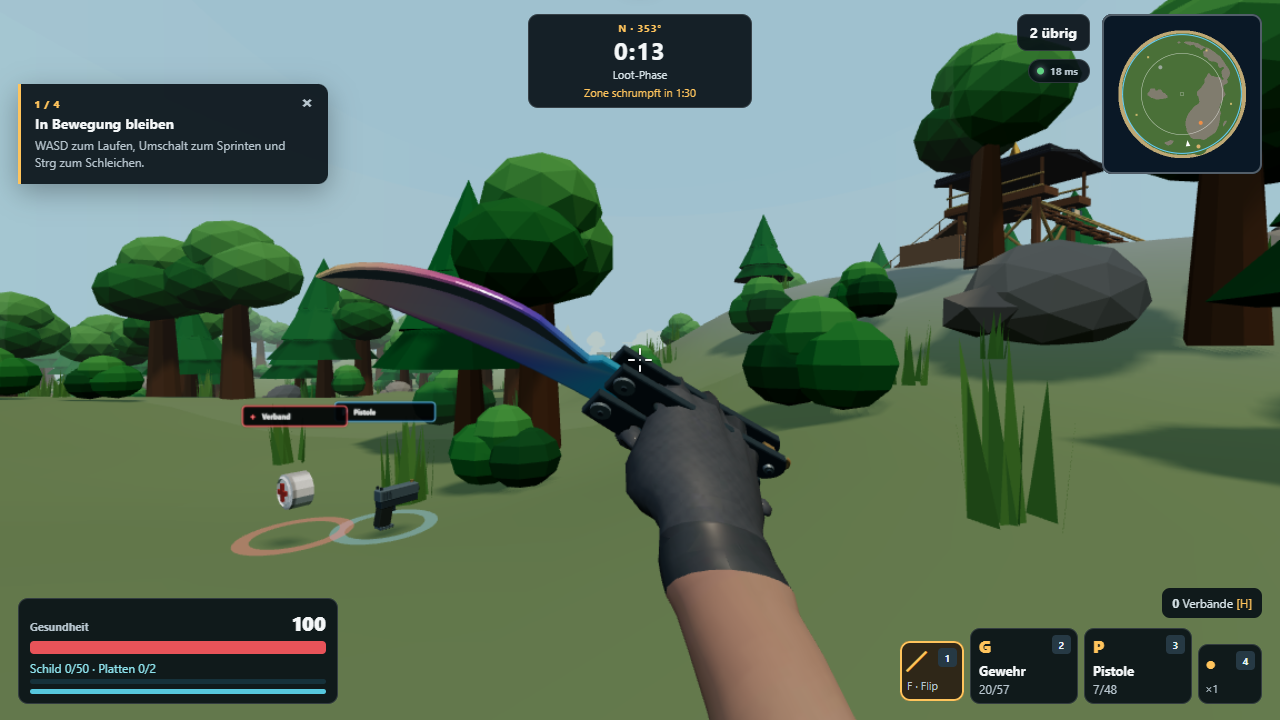
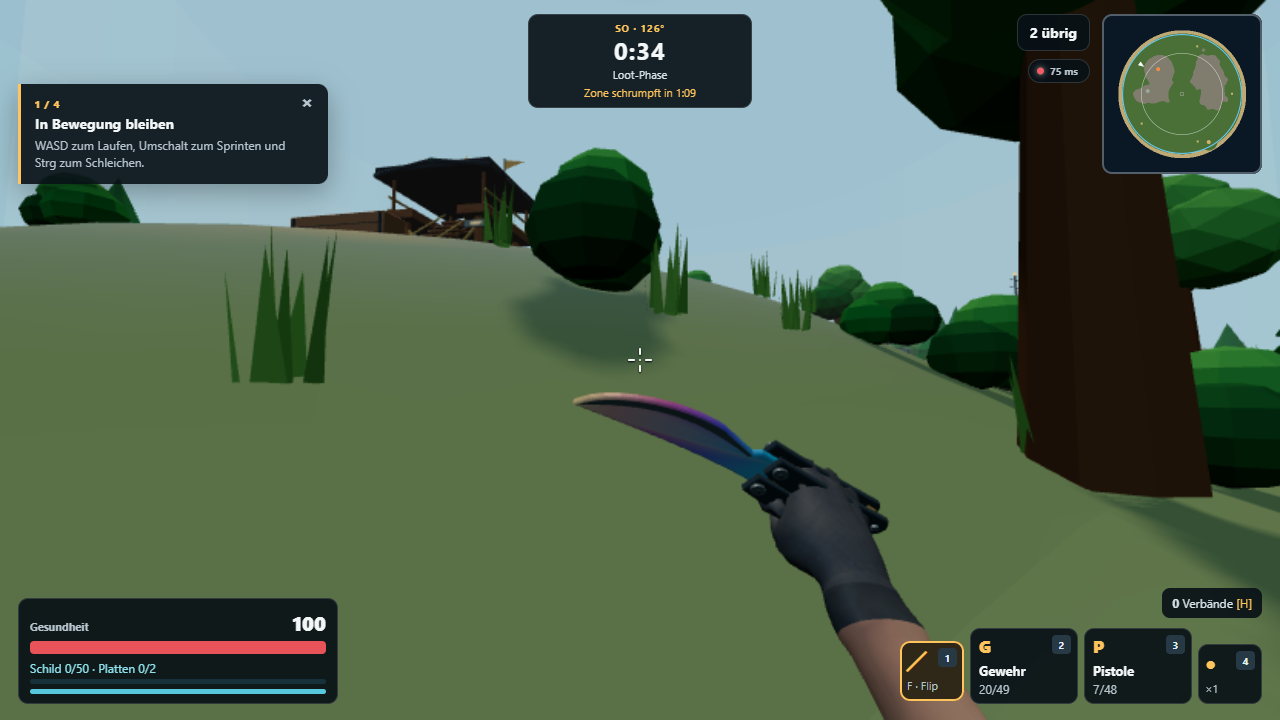
Refine knife and rifle first-person framing

diff --git a/tests/browser/gameplay-upgrade.spec.ts b/tests/browser/gameplay-upgrade.spec.ts
@@ -55,11 +55,15 @@ test('upgraded firearms fire, aim, reload and switch through real game input', a
     expect((await view()).supportGripError).toBeLessThan(0.001);
     const before = (await command('state')).mag;
     await page.mouse.down();
-    await page.waitForTimeout(180);
+    await page.waitForTimeout(70);
+    expect((await view()).centerObstruction).toBeNull();
+    await page.screenshot({ path: testInfo.outputPath('rifle-hip-fire.png') });
+    await page.waitForTimeout(110);
     await page.mouse.up();
     await expect.poll(async () => (await command('state')).mag).toBeLessThan(before);
     await page.mouse.down({ button: 'right' });
     await page.waitForTimeout(300);
+    expect((await view()).centerObstruction).toBeNull();
     await page.screenshot({ path: testInfo.outputPath('rifle-aim.png') });
     await page.mouse.up({ button: 'right' });
     await page.keyboard.press('r');
@@ -67,9 +71,17 @@ test('upgraded firearms fire, aim, reload and switch through real game input', a
     expect((await view()).supportGripError).toBeLessThan(0.001);
     expect((await view()).supportGripClose).toBeGreaterThan(0.8);
     await page.screenshot({ path: testInfo.outputPath('rifle-reload.png') });
-    await expect.poll(async () => (await view()).reloadProgress, { timeout: 8000 }).toBeGreaterThan(0.82);
-    expect((await view()).supportGripError).toBeLessThan(0.001);
-    await page.screenshot({ path: testInfo.outputPath('rifle-bolt.png') });
+    // Screenshot encoding can outlast the remaining two-second reload.
+    if ((await view()).reloadProgress >= 0) {
+      await expect.poll(async () => {
+        const progress = (await view()).reloadProgress;
+        return progress > 0.82 || progress < 0;
+      }, { timeout: 8000 }).toBe(true);
+      if ((await view()).reloadProgress >= 0) {
+        expect((await view()).supportGripError).toBeLessThan(0.001);
+        await page.screenshot({ path: testInfo.outputPath('rifle-bolt.png') });
+      }
+    }
     await expect.poll(async () => (await command('state')).reloading, { timeout: 8000 }).toBe(false);
     expect((await command('state')).mag).toBe(20);
     await page.keyboard.press('3');
@@ -96,6 +108,7 @@ test('upgraded firearms fire, aim, reload and switch through real game input', a
     await expect.poll(async () => (await view()).knifeAnimating).toBe(false);
     expect((await view()).knifeGripRelease).toBe(0);
     expect((await view()).primaryGripError).toBeLessThan(0.001);
+    expect((await view()).centerObstruction).toBeNull();
     await page.screenshot({ path: testInfo.outputPath('butterfly-ready.png') });
     expect((await view()).hands).toHaveLength(1);
     expect((await view()).hands[0].anatomical).toBe(true);
@@ -105,13 +118,30 @@ test('upgraded firearms fire, aim, reload and switch through real game input', a
     await expect.poll(async () => (await view()).knifeInspecting).toBe(true);
     await page.waitForTimeout(150);
     expect((await view()).primaryGripError).toBeLessThan(0.001);
+    expect((await view()).centerObstruction).toBeNull();
     await page.screenshot({ path: testInfo.outputPath('butterfly-inspect-contact.png') });
-    await page.waitForTimeout(450);
-    expect((await view()).knifeGripRelease).toBeGreaterThan(0.8);
+    // A second press can restart the flourish even if capturing the first
+    // frame took longer than the current animation cycle on a slow machine.
+    await page.keyboard.press('f');
+    await expect.poll(async () => (await view()).knifeProgress).toBeLessThan(0.12);
+    await expect.poll(async () => (await view()).knifeGripRelease, { timeout: 2500 }).toBeGreaterThan(0.8);
     expect((await view()).primaryGripError).toBeLessThan(0.001);
+    expect((await view()).centerObstruction).toBeNull();
     await page.screenshot({ path: testInfo.outputPath('butterfly-inspect.png') });
-    await page.waitForTimeout(400);
+    await expect.poll(async () => (await view()).knifeInspecting, { timeout: 3500 }).toBe(false);
     await page.screenshot({ path: testInfo.outputPath('butterfly-inspect-return.png') });
+    await page.keyboard.press('f');
+    const blockedInspectFrames = await page.evaluate(async () => {
+      const hits: string[] = [];
+      const started = performance.now();
+      while (performance.now() - started < 1700) {
+        await new Promise<void>(resolve => requestAnimationFrame(() => resolve()));
+        const stats = (window as any).__ISLAND_DUELL_DIAGNOSTICS__.snapshot().entities?.viewmodel;
+        if (stats?.centerObstruction) hits.push(stats.centerObstruction);
+      }
+      return [...new Set(hits)];
+    });
+    expect(blockedInspectFrames).toEqual([]);
     for (let i = 0; i < 3; i++) {
       await page.keyboard.press('f');
       await expect.poll(async () => (await view()).knifeProgress).toBeLessThan(0.12);

diff --git a/client/src/entities.ts b/client/src/entities.ts
@@ -562,11 +562,11 @@ function viewmodelFor(weapon: WeaponType | 'none', skinColor: number): THREE.Gro
     }
   }
 
-  const scale = weapon === 'knife' ? 0.78 : weapon === 'rifle' ? 0.52
+  const scale = weapon === 'knife' ? 0.72 : weapon === 'rifle' ? 0.52
     : weapon === 'shotgun' || weapon === 'sniper' ? 0.42 : 0.54;
   g.scale.setScalar(scale);
   const baseRotation = weapon === 'knife' ? { x: 0.65, y: 0, z: 0.92 }
-    : { x: 0, y: weapon === 'rifle' ? 0.35 : -0.08, z: 0 };
+    : { x: 0, y: weapon === 'rifle' ? 0.08 : -0.08, z: 0 };
   g.rotation.set(baseRotation.x, baseRotation.y, baseRotation.z);
   g.userData.viewmodelBaseRotation = baseRotation;
   g.traverse((object) => {
@@ -1696,18 +1696,18 @@ export class Entities {
     const knifeView = this.viewWeaponType === 'knife';
     const longGunView = this.viewWeaponType === 'rifle'
       || this.viewWeaponType === 'shotgun' || this.viewWeaponType === 'sniper';
-    const hipX = knifeView ? -0.04 : longGunView ? 0.20 : 0.38;
-    const hipY = knifeView ? -0.04 : longGunView ? -0.14 : -0.28;
-    const hipZ = knifeView ? -0.70 : longGunView ? -0.68 : -0.72;
-    const aimY = this.viewWeaponType === 'pistol' ? -0.09 : this.viewWeaponType === 'sniper' ? -0.086 : -0.065;
+    const hipX = knifeView ? 0.23 : longGunView ? 0.20 : 0.38;
+    const hipY = knifeView ? -0.20 : longGunView ? -0.14 : -0.28;
+    const hipZ = knifeView ? -0.86 : longGunView ? -0.68 : -0.72;
+    const aimY = this.viewWeaponType === 'pistol' ? -0.09 : this.viewWeaponType === 'sniper' ? -0.086 : this.viewWeaponType === 'rifle' ? -0.07 : -0.065;
     this.viewRoot.position.set(
       THREE.MathUtils.lerp(hipX, 0, this.aimBlend),
       THREE.MathUtils.lerp(hipY, aimY, this.aimBlend),
-      THREE.MathUtils.lerp(hipZ, -0.57, this.aimBlend),
+      THREE.MathUtils.lerp(hipZ, this.viewWeaponType === 'rifle' ? -0.68 : -0.57, this.aimBlend),
     );
     if (this.viewWeapon) {
       if (longGunView) {
-        this.viewWeapon.scale.setScalar(THREE.MathUtils.lerp(0.52, 0.42, this.aimBlend));
+        this.viewWeapon.scale.setScalar(THREE.MathUtils.lerp(0.52, this.viewWeaponType === 'rifle' ? 0.34 : 0.42, this.aimBlend));
       }
       const baseRotation = this.viewWeapon.userData.viewmodelBaseRotation as {
         x: number; y: number; z: number;
@@ -1782,10 +1782,10 @@ export class Entities {
           });
           hand.userData.gripRelease = release;
         }
-        this.viewWeapon.rotation.z += pose.wrist * 0.4;
-        this.viewWeapon.rotation.y += pose.inspect * 0.15;
-        this.viewWeapon.position.x -= pose.inspect * 0.16 + swing * 0.16;
-        this.viewWeapon.position.y += pose.inspect * 0.10;
+        this.viewWeapon.rotation.z += pose.wrist * 0.55;
+        this.viewWeapon.rotation.y += pose.inspect * 0.12;
+        this.viewWeapon.position.x += pose.inspect * 0.15 - swing * 0.16;
+        this.viewWeapon.position.y -= pose.inspect * 0.05;
       }
       const mechanism = reloadPose(progress);
       const magazine = this.viewWeapon.getObjectByName('moving-magazine');
@@ -1880,6 +1880,7 @@ export class Entities {
     knifeProgress: number;
     knifeBladeAngle: number;
     knifeGripRelease: number;
+    centerObstruction: string | null;
     primaryGripError: number | null;
     supportGripError: number | null;
     supportGripClose: number;
@@ -1908,6 +1909,11 @@ export class Entities {
       ? new THREE.Vector3().copy(supportHand.userData.gripCenter as THREE.Vector3)
         .applyMatrix4(supportHand.matrixWorld)
         .distanceTo(this.viewWeapon!.localToWorld((supportHand.userData.activeTarget as THREE.Vector3).clone()))
+      : null;
+    const raycaster = new THREE.Raycaster();
+    raycaster.setFromCamera(new THREE.Vector2(0, 0), this.camera);
+    const centerObstruction = this.viewRoot.visible && this.viewWeapon
+      ? raycaster.intersectObject(this.viewWeapon, true)[0]?.object.name ?? null
       : null;
     const hands: Array<{
       anatomical: boolean;
@@ -1945,6 +1951,7 @@ export class Entities {
       knifeProgress: this.knifeT < 0 ? -1 : this.knifeT / (this.knifeInspect ? KNIFE_INSPECT_SECONDS : KNIFE_DRAW_SECONDS),
       knifeBladeAngle: this.viewWeapon?.getObjectByName('knife-blade-pivot')?.rotation.z ?? 0,
       knifeGripRelease: this.viewWeapon?.getObjectByName('trigger-hand')?.userData.gripRelease ?? 0,
+      centerObstruction,
       primaryGripError,
       supportGripError,
       supportGripClose: supportHand?.userData.gripClose ?? 0,

diff --git a/client/src/butterfly-knife.ts b/client/src/butterfly-knife.ts
@@ -116,6 +116,13 @@ const frames = [
   [0, 1, 1, -0.65], [0.18, 1.5, 0.7, 0.18], [0.42, 2.08, -0.85, -0.16],
   [0.67, 2, 0.34, 0.12], [0.86, 2, -0.055, -0.035], [1, 2, 0, 0],
 ] as const;
+// An inspection starts with the open blade, rolls the free handle through the
+// fingers, then holds the open knife briefly before returning to the idle grip.
+const inspectFrames = [
+  [0, 0, 0, 0], [0.10, 0.08, -0.12, 0.18], [0.24, 0.90, 0.72, -0.20],
+  [0.39, 1.65, -0.75, -0.32], [0.54, 2.05, 0.35, 0.12],
+  [0.69, 2, 0, 0.14], [0.84, 2, 0, 0.14], [1, 2, 0, 0],
+] as const;
 
 export interface KnifePose { blade: number; bite: number; wrist: number; inspect: number; grip: number }
 
@@ -123,25 +130,26 @@ export interface KnifePose { blade: number; bite: number; wrist: number; inspect
 export function knifePose(progress: number, inspect = false, reducedMotion = false): KnifePose {
   if (progress < 0 || progress >= 1 || reducedMotion) return { blade: 0, bite: 0, wrist: 0, inspect: 0, grip: 0 };
   const t = THREE.MathUtils.clamp(progress, 0, 1);
-  const phase = inspect ? (t < 0.25 ? -1 : (t - 0.25) / 0.75) : t;
-  let blade = 0, bite = 0, wrist = 0;
-  if (phase >= 0) {
-    const end = frames.findIndex((f) => f[0] > phase);
-    const b = frames[end < 0 ? frames.length - 1 : end];
-    const a = frames[Math.max(0, (end < 0 ? frames.length - 1 : end) - 1)];
-    const k = smooth((phase - a[0]) / (b[0] - a[0] || 1));
-    blade = THREE.MathUtils.lerp(a[1], b[1], k) * Math.PI;
-    bite = THREE.MathUtils.lerp(a[2], b[2], k) * Math.PI;
-    wrist = THREE.MathUtils.lerp(a[3], b[3], k);
-  } else {
-    const fold = smooth(t / 0.25);
-    blade = fold * Math.PI;
-    bite = fold * Math.PI;
-    wrist = fold * -0.65;
-  }
-  const grip = smooth(THREE.MathUtils.clamp((t - 0.12) / 0.14, 0, 1))
-    * (1 - smooth(THREE.MathUtils.clamp((t - 0.76) / 0.17, 0, 1)));
-  return { blade, bite, wrist, inspect: inspect ? Math.sin(t * Math.PI) : 0, grip };
+  const timeline = inspect ? inspectFrames : frames;
+  const end = timeline.findIndex((f) => f[0] > t);
+  const b = timeline[end < 0 ? timeline.length - 1 : end];
+  const a = timeline[Math.max(0, (end < 0 ? timeline.length - 1 : end) - 1)];
+  const k = smooth((t - a[0]) / (b[0] - a[0] || 1));
+  const grip = inspect
+    ? smooth(THREE.MathUtils.clamp((t - 0.13) / 0.16, 0, 1))
+      * (1 - smooth(THREE.MathUtils.clamp((t - 0.59) / 0.14, 0, 1)))
+    : smooth(THREE.MathUtils.clamp((t - 0.12) / 0.14, 0, 1))
+      * (1 - smooth(THREE.MathUtils.clamp((t - 0.76) / 0.17, 0, 1)));
+  const presentation = inspect
+    ? smooth(THREE.MathUtils.clamp(t / 0.08, 0, 1))
+      * (1 - smooth(THREE.MathUtils.clamp((t - 0.82) / 0.18, 0, 1))) : 0;
+  return {
+    blade: THREE.MathUtils.lerp(a[1], b[1], k) * Math.PI,
+    bite: THREE.MathUtils.lerp(a[2], b[2], k) * Math.PI,
+    wrist: THREE.MathUtils.lerp(a[3], b[3], k),
+    inspect: presentation,
+    grip,
+  };
 }
 
 export function applyKnifePose(model: THREE.Object3D, pose: KnifePose): void {

diff --git a/tests/butterfly-knife.test.ts b/tests/butterfly-knife.test.ts
@@ -86,4 +86,15 @@ describe('permanent butterfly loadout', () => {
     expect(knifePose(0.4, true).grip).toBeGreaterThan(0.9);
     expect(knifePose(0.97, true).grip).toBe(0);
   });
+
+  it('inspects from an open blade, flips once and pauses open before returning', () => {
+    expect(knifePose(0, true).blade).toBe(0);
+    expect(knifePose(0.4, true).grip).toBeGreaterThan(0.9);
+    const hold = knifePose(0.78, true);
+    expect(hold.blade).toBeCloseTo(2 * Math.PI);
+    expect(hold.bite).toBeCloseTo(0);
+    expect(hold.grip).toBe(0);
+    expect(hold.inspect).toBeGreaterThan(0.9);
+    expect(knifePose(0.98, true).inspect).toBeLessThan(hold.inspect);
+  });
 });

diff --git a/art/reviews/hand-grip/README.md b/art/reviews/hand-grip/README.md
@@ -11,9 +11,9 @@ The user-provided knife and rifle screenshots add three targets: a larger glove 
 | --- | --- | --- |
 | Knife idle | ![Previous idle: long bent arm and upright blade](before.png) | ![Revised idle: continuous forearm and diagonal blade](knife-idle.png) |
 
-The previous forearm was stretched and swept sideways by vertex coordinates after posing. The revised export preserves its original length and cross-section and bends it through the source bone weights. The handle is aligned with a grip socket inside the curled fingers. The larger knife view and raised leather cuff give the glove more of the screen coverage in the user's reference; the sculpted knuckle contours and restrained material grain keep the glove a continuous surface.
+The previous forearm was stretched and swept sideways by vertex coordinates after posing. The revised export preserves its original length and cross-section and bends it through the source bone weights. The handle is aligned with a grip socket inside the curled fingers. The latest framing makes the knife smaller and shifts it down and to the right, so the blade and glove no longer cover the crosshair. The sculpted knuckle contours and restrained material grain keep the glove a continuous surface.
 
-The lower fingers loosen during the butterfly inspect animation and close around both handles again at rest:
+The lower fingers loosen during the butterfly inspect animation and close around both handles again at rest. Inspection has its own handle-flip timing and a brief open hold, while staying on the right side of the frame:
 
 ![Revised butterfly inspect frame](knife-inspect.png)
 
@@ -21,9 +21,9 @@ The Blender inspection below shows the posed anatomical fingers wrapping a grip-
 
 ![Posed fingers around a grip reference](grip-inspection.png)
 
-The same hand export is used on firearms. In the rifle hip view the left support hand wraps around the fore-end, while aiming keeps the sights clear and routes the elbow below the frame:
+The same hand export is used on firearms. In the rifle hip view the left support hand wraps around the fore-end. The rifle now points straighter while firing, and aiming brings a smaller stock below the crosshair, with the sights still visible:
 
-![Revised rifle hip frame](rifle-hip.png)
+![Revised rifle while firing from the hip](rifle-hip-fire.png)
 
 ![Revised rifle aiming frame](rifle-aim.png)
 
